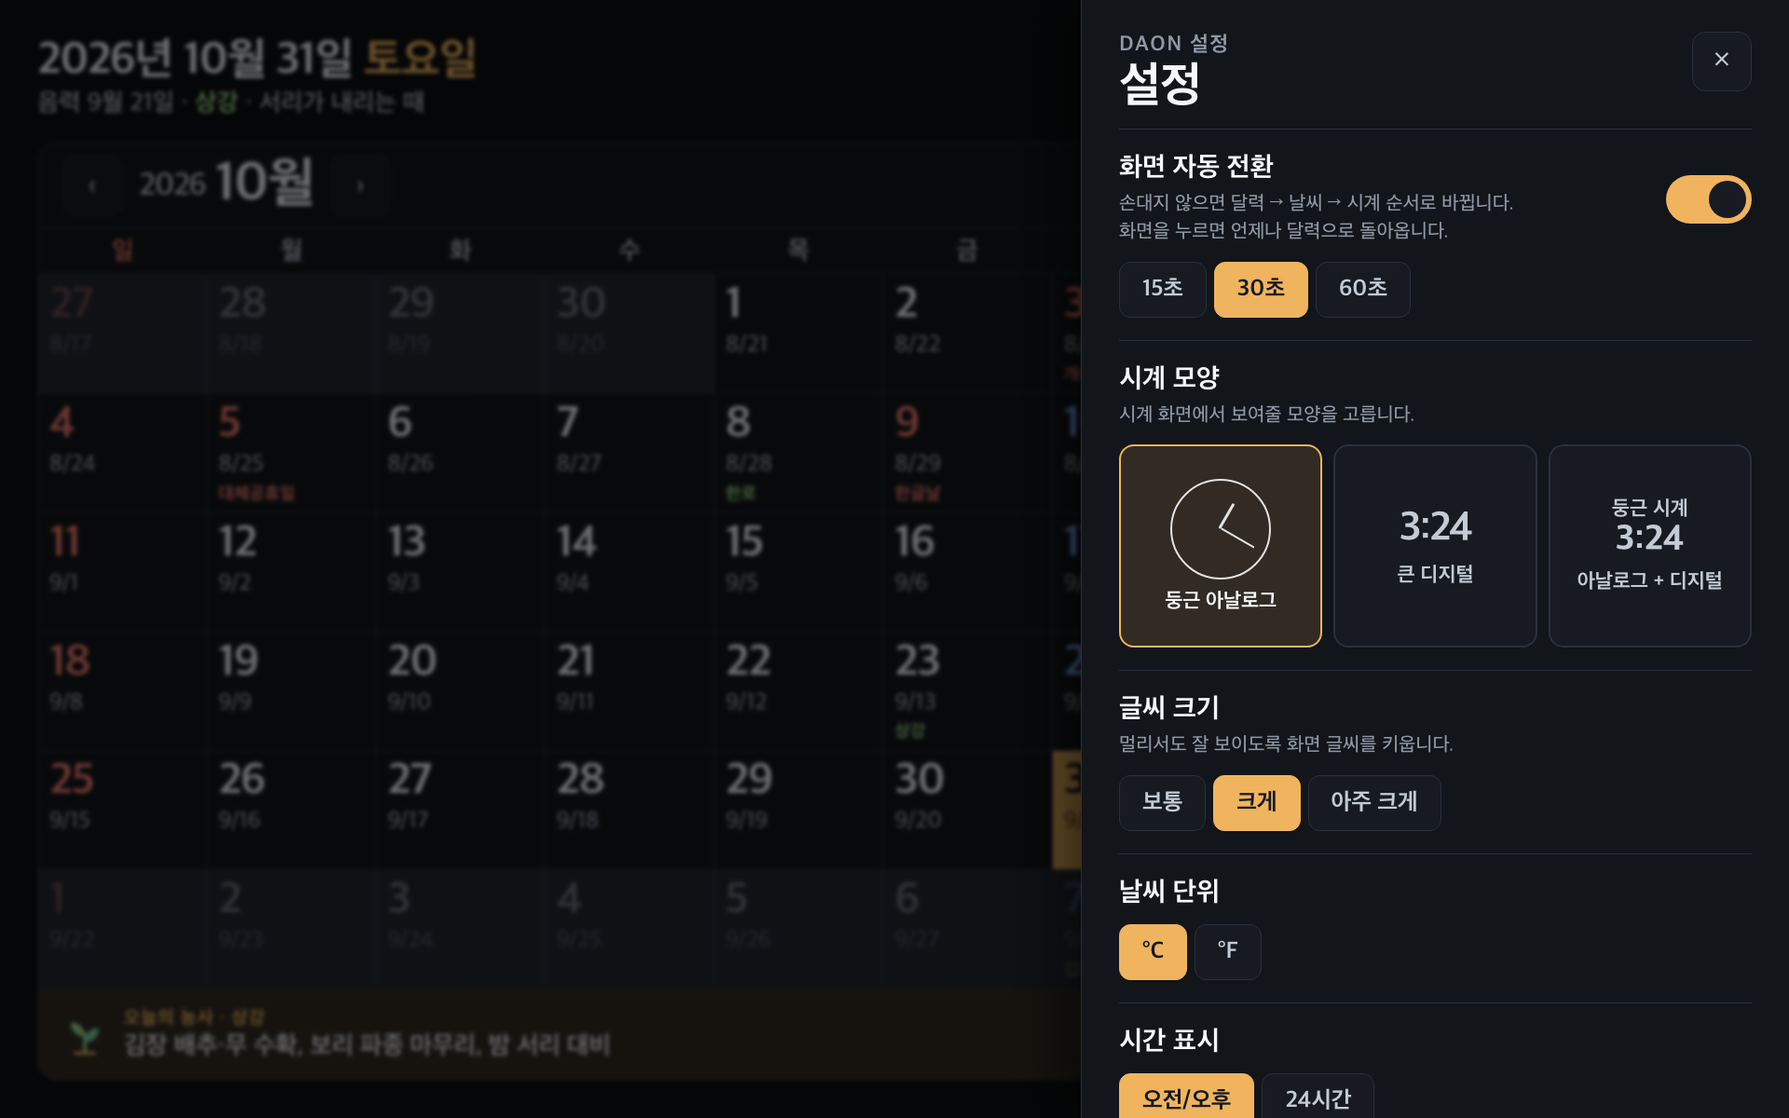
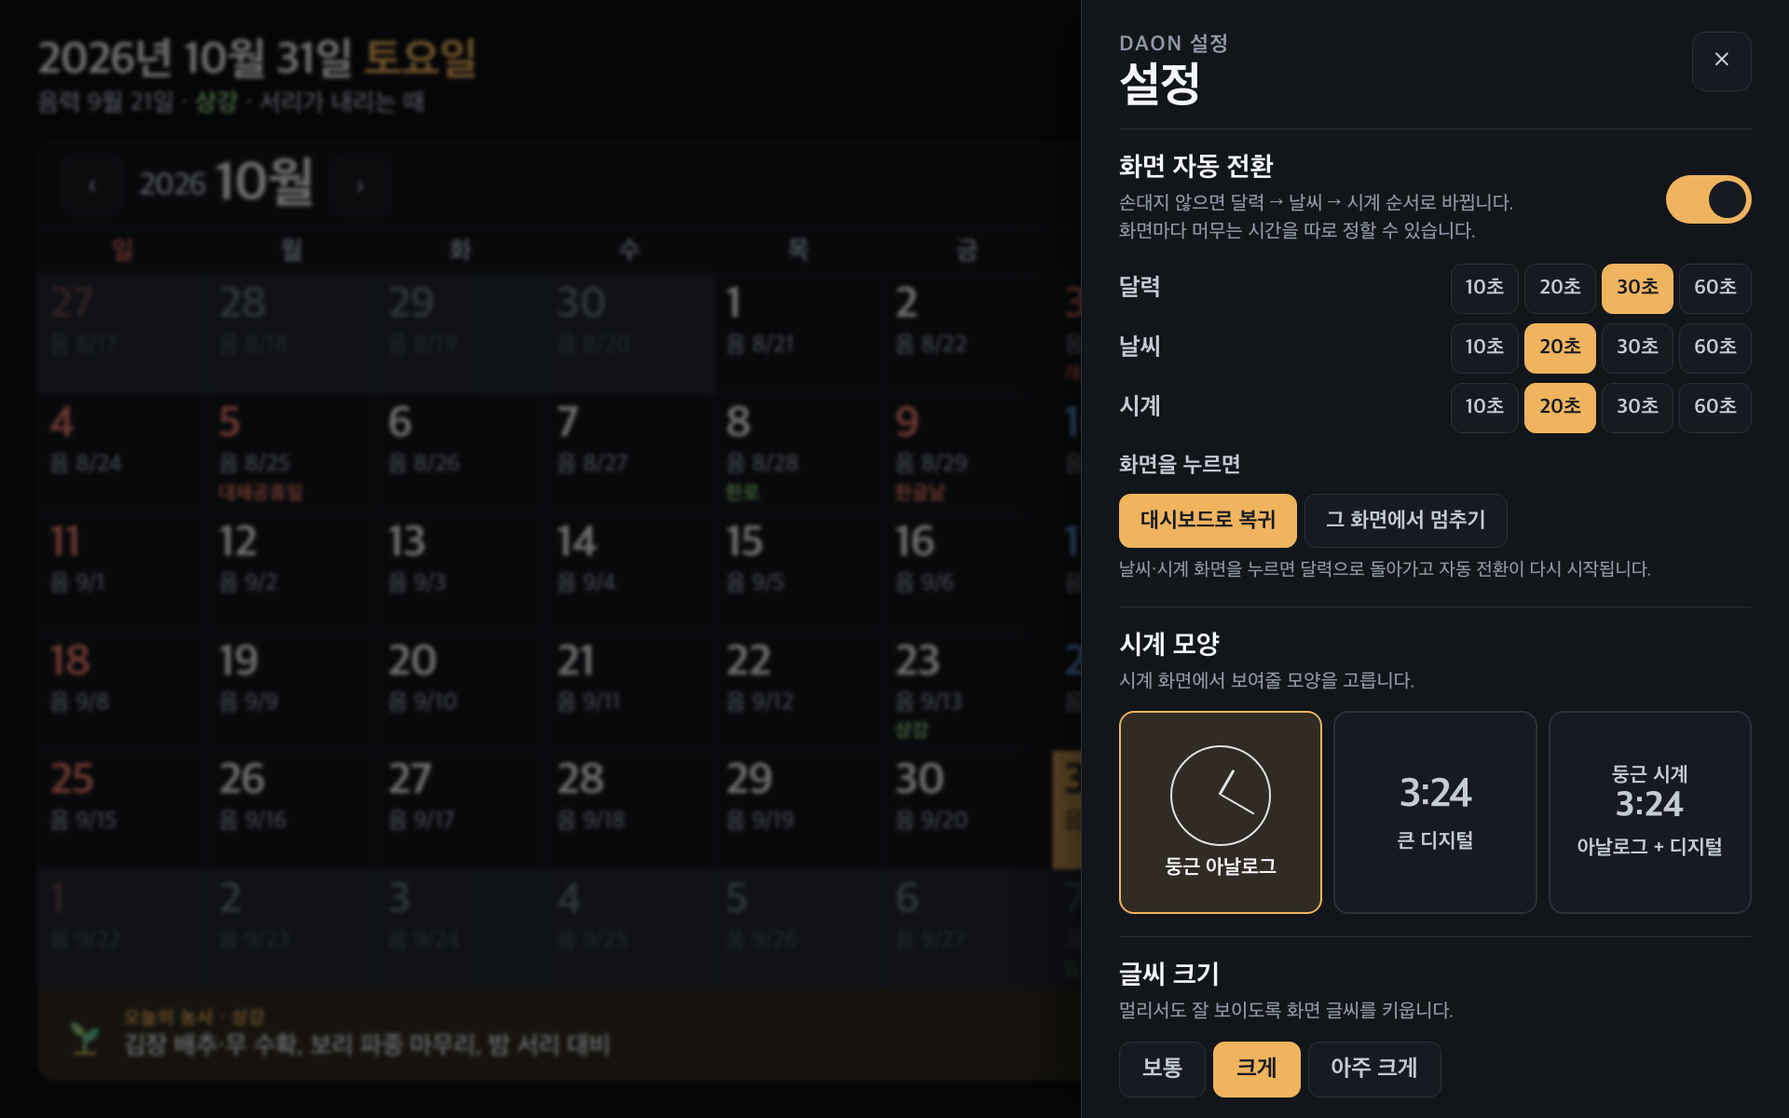
docs(android): v0.2 승인안 반영 — 화면별 전환·터치 동작
화면별 유지 시간(30/20/20초, 10·20·30·60초 설정), 터치 동작(대시보드 복귀 기본 / 그 화면에서 멈추기), 설정 목업·문서 동기화.

diff --git a/docs/mockups/v0.2/index.html b/docs/mockups/v0.2/index.html
@@ -222,6 +222,14 @@
   .seg{height:60px;padding:0 24px;border:1px solid var(--rule);border-radius:12px;background:var(--surface2);
     color:var(--text2);font-size:25px;font-weight:700}
   .seg.on{border-color:var(--accent);background:var(--accent);color:#161A20}
+  .dwell-list{display:flex;flex-direction:column;gap:10px;margin-top:18px}
+  .dwell-row{display:flex;align-items:center;justify-content:space-between;gap:14px}
+  .dwell-name{font-size:26px;font-weight:700;color:var(--text2);min-width:70px}
+  .dwell-row .segmented{margin-top:0;flex-wrap:nowrap;gap:6px}
+  .dwell-row .seg{height:54px;padding:0 15px;font-size:22px;font-weight:700}
+  .touch-label{font-size:24px;font-weight:700;color:var(--text2);margin-top:20px}
+  .touch-note{font-size:20px;color:var(--muted);margin-top:10px;line-height:1.45;font-weight:500}
+  #touchSeg .seg{height:58px;padding:0 22px;font-size:23px}
   .face-grid{display:grid;grid-template-columns:repeat(3,1fr);gap:12px;margin-top:16px}
   .face-card{height:218px;border:2px solid var(--rule);border-radius:16px;background:var(--surface2);color:var(--text2);
     display:flex;flex-direction:column;align-items:center;justify-content:center;gap:10px;padding:12px}
@@ -413,7 +421,7 @@
     <header class="topbar">
       <div>
         <div class="title">오늘 날씨</div>
-        <div class="sub">서울 · 15시 11분 갱신 · 화면을 누르면 달력으로 돌아갑니다</div>
+        <div class="sub" id="weatherSub">서울 · 15시 11분 갱신 · 화면을 누르면 달력으로 돌아갑니다</div>
       </div>
       <div class="right">
         <div class="dots" data-dots="weather"><i class="dot"></i><i class="dot on"></i><i class="dot"></i></div>
@@ -475,7 +483,7 @@
     <header class="topbar">
       <div>
         <div class="title">시계</div>
-        <div class="sub">자동 전환 중 · 시계 모양은 설정에서 바꿀 수 있습니다</div>
+        <div class="sub" id="clockSub">자동 전환 중 · 시계 모양은 설정에서 바꿀 수 있습니다</div>
       </div>
       <div class="right">
         <div class="dots" data-dots="clock"><i class="dot"></i><i class="dot"></i><i class="dot on"></i></div>
@@ -506,7 +514,7 @@
       <div class="clock-caption">음력 9월 21일 · 상강</div>
       <div class="clock-term">서리가 내리는 때 · 김장 배추 수확</div>
       <div class="clock-weather">지금 <b>14°</b> 비 · 오늘 <b>18° / 9°</b></div>
-      <div class="touch-hint">아무 곳이나 누르면 달력으로 돌아갑니다</div>
+      <div class="touch-hint" id="clockHint">아무 곳이나 누르면 달력으로 돌아갑니다</div>
     </div>
   </section>
 
@@ -526,15 +534,45 @@
         <div class="setting-row">
           <div>
             <div class="lab">화면 자동 전환</div>
-            <div class="desc">손대지 않으면 달력 → 날씨 → 시계 순서로 바뀝니다.<br>화면을 누르면 언제나 달력으로 돌아옵니다.</div>
+            <div class="desc">손대지 않으면 달력 → 날씨 → 시계 순서로 바뀝니다.<br>화면마다 머무는 시간을 따로 정할 수 있습니다.</div>
           </div>
           <button class="toggle" id="rotationToggle" aria-label="화면 자동 전환"></button>
         </div>
-        <div class="segmented" id="intervalSeg">
-          <button class="seg">15초</button>
-          <button class="seg on">30초</button>
-          <button class="seg">60초</button>
+        <div class="dwell-list">
+          <div class="dwell-row">
+            <span class="dwell-name">달력</span>
+            <div class="segmented dwell-seg" data-screen="calendar" role="group" aria-label="달력 화면 유지 시간">
+              <button class="seg">10초</button>
+              <button class="seg">20초</button>
+              <button class="seg on">30초</button>
+              <button class="seg">60초</button>
+            </div>
+          </div>
+          <div class="dwell-row">
+            <span class="dwell-name">날씨</span>
+            <div class="segmented dwell-seg" data-screen="weather" role="group" aria-label="날씨 화면 유지 시간">
+              <button class="seg">10초</button>
+              <button class="seg on">20초</button>
+              <button class="seg">30초</button>
+              <button class="seg">60초</button>
+            </div>
+          </div>
+          <div class="dwell-row">
+            <span class="dwell-name">시계</span>
+            <div class="segmented dwell-seg" data-screen="clock" role="group" aria-label="시계 화면 유지 시간">
+              <button class="seg">10초</button>
+              <button class="seg on">20초</button>
+              <button class="seg">30초</button>
+              <button class="seg">60초</button>
+            </div>
+          </div>
         </div>
+        <div class="touch-label">화면을 누르면</div>
+        <div class="segmented" id="touchSeg" role="group" aria-label="화면 터치 동작">
+          <button class="seg on" data-mode="dashboard">대시보드로 복귀</button>
+          <button class="seg" data-mode="pause">그 화면에서 멈추기</button>
+        </div>
+        <div class="touch-note" id="touchNote">날씨·시계 화면을 누르면 달력으로 돌아가고 자동 전환이 다시 시작됩니다.</div>
       </div>
 
       <div class="setting-section">
@@ -791,14 +829,17 @@ const screens=['calendar','weather','clock'];
 const stage=document.getElementById('stage');
 let current='calendar';
 let auto=false;
+let paused=false;
 let autoTimer=null;
-let autoInterval=12000;
+const dwells={calendar:30000, weather:20000, clock:20000};
+let touchMode='dashboard';
 
 function dotsFor(name){
   document.querySelectorAll('.dots').forEach(d=>d.style.opacity=(d.dataset.dots===name)?'1':'.45');
 }
 function setScreen(name, opts={}){
   current=name;
+  if(name==='settings'||name==='term') clearTimeout(autoTimer);
   const base=(name==='settings'||name==='term')?'calendar':name;
   document.querySelectorAll('.screen').forEach(s=>s.classList.toggle('active',s.id==='screen-'+base));
   document.getElementById('settings-overlay').classList.toggle('active',name==='settings');
@@ -807,28 +848,49 @@ function setScreen(name, opts={}){
   document.querySelectorAll('#toolbar [data-go]').forEach(b=>b.classList.toggle('active',b.dataset.go===name));
   document.querySelectorAll('.dots').forEach(d=>d.style.display=(name==='settings'||name==='term')?'none':'flex');
   if(name==='term' && !opts.keepDetail) showDetail('2026-10-23', true);
-  if(opts.resetAuto) resetAuto();
+  if(opts.resetAuto){ paused=false; updateTouchHints(); resetAuto(); }
 }
 function resetAuto(){
-  if(!auto) return;
+  if(!auto || paused) return;
   clearTimeout(autoTimer);
+  if(current==='settings'||current==='term') return;
   autoTimer=setTimeout(()=>{
-    if(current==='settings'||current==='term'){resetAuto();return}
     const i=screens.indexOf(current);
     setScreen(screens[(i+1)%3]);
     resetAuto();
-  },autoInterval);
+  }, dwells[current] || 20000);
 }
-function startAuto(ms){
-  auto=true; autoInterval=ms||autoInterval;
+function startAuto(){
+  auto=true; paused=false;
   document.getElementById('autoBtn').textContent='자동 전환: 켜짐';
   const t=document.getElementById('rotationToggle'); if(t) t.classList.remove('off');
+  updateTouchHints();
   resetAuto();
 }
 function stopAuto(){
-  auto=false; clearTimeout(autoTimer);
+  auto=false; paused=false; clearTimeout(autoTimer);
   document.getElementById('autoBtn').textContent='자동 전환: 꺼짐';
   const t=document.getElementById('rotationToggle'); if(t) t.classList.add('off');
+  updateTouchHints();
+}
+function pauseAuto(){
+  paused=true; clearTimeout(autoTimer);
+  updateTouchHints();
+}
+function updateTouchHints(){
+  const wSub=document.getElementById('weatherSub');
+  const cSub=document.getElementById('clockSub');
+  const cHint=document.getElementById('clockHint');
+  const note=document.getElementById('touchNote');
+  const dashboard=touchMode==='dashboard';
+  if(wSub) wSub.textContent='서울 · 15시 11분 갱신 · '+
+    (dashboard ? '화면을 누르면 달력으로 돌아갑니다' : '화면을 누르면 이 화면에서 멈춥니다');
+  if(cSub) cSub.textContent=paused ? '자동 전환 멈춤' : '자동 전환 중 · 시계 모양은 설정에서 바꿀 수 있습니다';
+  if(cHint) cHint.textContent=paused ? '자동 전환을 멈췄습니다 · 다시 누르면 시작합니다'
+    : (dashboard ? '아무 곳이나 누르면 달력으로 돌아갑니다' : '아무 곳이나 누르면 자동 전환을 멈춥니다');
+  if(note) note.textContent=dashboard
+    ? '날씨·시계 화면을 누르면 달력으로 돌아가고 자동 전환이 다시 시작됩니다.'
+    : '날씨·시계 화면을 누르면 그 화면에 그대로 멈춥니다. 다시 누르면 자동 전환이 시작됩니다.';
 }
 document.querySelectorAll('[data-go]').forEach(b=>b.addEventListener('click',()=>{
   const go=b.dataset.go;
@@ -841,20 +903,25 @@ document.querySelectorAll('[data-close]').forEach(b=>b.addEventListener('click',
   if(which==='term') setScreen('calendar',{resetAuto:true});
 }));
 document.getElementById('autoBtn').addEventListener('click',()=>{
-  if(auto){stopAuto();} else {startAuto(12000);}
+  if(auto){stopAuto();} else {startAuto();}
 });
 
-/* 터치하면 달력으로 */
+/* 터치 동작: 대시보드 복귀(기본) 또는 그 화면에서 멈추기 */
 stage.addEventListener('click',(e)=>{
   if(current==='weather'||current==='clock'){
-    // 화면 전체 터치 → 달력 복귀 (단, 설정 버튼은 예외)
     if(e.target.closest('[data-go="settings"]')) return;
-    setScreen('calendar',{resetAuto:true});
+    if(touchMode==='dashboard'){
+      setScreen('calendar',{resetAuto:true});
+    } else if(paused){
+      startAuto();
+    } else {
+      pauseAuto();
+    }
   } else if(current==='settings'||current==='term'){
     // 패널 내부 조작은 유지, 바깥 scrim은 닫기
     if(e.target.closest('.scrim')) setScreen('calendar',{resetAuto:true});
   } else {
-    resetAuto();
+    if(paused) startAuto(); else resetAuto();
   }
 },true);
 
@@ -862,13 +929,23 @@ stage.addEventListener('click',(e)=>{
 const rotationToggle=document.getElementById('rotationToggle');
 rotationToggle.addEventListener('click',()=>{
   rotationToggle.classList.toggle('off');
-  if(rotationToggle.classList.contains('off')) stopAuto(); else startAuto(autoInterval);
+  if(rotationToggle.classList.contains('off')) stopAuto(); else startAuto();
 });
-document.querySelectorAll('#intervalSeg .seg').forEach(b=>b.addEventListener('click',()=>{
-  document.querySelectorAll('#intervalSeg .seg').forEach(x=>x.classList.remove('on'));
+document.querySelectorAll('.dwell-seg').forEach(group=>{
+  group.querySelectorAll('.seg').forEach(b=>b.addEventListener('click',()=>{
+    group.querySelectorAll('.seg').forEach(x=>x.classList.remove('on'));
+    b.classList.add('on');
+    dwells[group.dataset.screen]=parseInt(b.textContent,10)*1000;
+    if(auto && !paused) resetAuto();
+  }));
+});
+document.querySelectorAll('#touchSeg .seg').forEach(b=>b.addEventListener('click',()=>{
+  document.querySelectorAll('#touchSeg .seg').forEach(x=>x.classList.remove('on'));
   b.classList.add('on');
-  autoInterval=parseInt(b.textContent,10)*1000;
-  if(auto) startAuto(autoInterval);
+  touchMode=b.dataset.mode;
+  paused=false;
+  updateTouchHints();
+  if(auto) resetAuto();
 }));
 document.querySelectorAll('#faceGrid .face-card').forEach(b=>b.addEventListener('click',()=>{
   document.querySelectorAll('#faceGrid .face-card').forEach(x=>x.classList.remove('on'));
@@ -877,7 +954,7 @@ document.querySelectorAll('#faceGrid .face-card').forEach(b=>b.addEventListener(
   document.getElementById('clockFaceWrap').dataset.face=face;
 }));
 document.querySelectorAll('.segmented').forEach(group=>{
-  if(group.id==='intervalSeg') return;
+  if(group.classList.contains('dwell-seg')||group.id==='faceSeg'||group.id==='touchSeg') return;
   group.querySelectorAll('.seg').forEach(b=>b.addEventListener('click',()=>{
     group.querySelectorAll('.seg').forEach(x=>x.classList.remove('on'));
     b.classList.add('on');
@@ -951,8 +1028,9 @@ if(params.get('capture')==='1'){
 } else {
   fit();
   setScreen('calendar');
-  startAuto(12000); // 목업에서는 12초로 빠르게 시연
+  startAuto(); // 승인된 기본값: 달력 30초 / 날씨 20초 / 시계 20초
 }
+updateTouchHints();
 </script>
 </body>
 </html>

diff --git a/docs/mockups/v0.2/README.md b/docs/mockups/v0.2/README.md
@@ -20,7 +20,7 @@ python3 -m http.server 8787
 # http://localhost:8787/index.html
 ```
 
-상단 툴바에서 화면을 바꿀 수 있습니다. 목업에서는 자동 전환이 **12초**로 빠르게 동작합니다(실제 제안 기본값은 달력 30초 / 날씨 20초 / 시계 20초).
+상단 툴바에서 화면을 바꿀 수 있습니다. 목업도 실제 제안값과 같은 **달력 30초 / 날씨 20초 / 시계 20초**로 자동 전환합니다. 설정 패널에서 화면별 시간을 10/20/30/60초로 바꿀 수 있습니다.
 
 ### 상호작용
 
@@ -33,7 +33,8 @@ python3 -m http.server 8787
 | 달력의 **10/8(한로), 10/23(상강)** 클릭 | 24절기 설명 + 농사일 |
 | 달력의 **10/3, 10/5, 10/9** 클릭 | 공휴일 설명 |
 | 아무 날짜 클릭 | 음력·절기·공휴일 상세(없으면 날짜 정보) |
-| 날씨/시계 화면 아무 곳 클릭 | 달력으로 복귀 (자동 전환 리셋) |
+| 날씨/시계 화면 아무 곳 클릭 | 기본: 달력으로 복귀 (자동 전환 리셋) / 설정에서 `그 화면에서 멈추기` 선택 시: 그 화면에서 정지, 다시 누르면 재개 |
+| 설정 → 화면 자동 전환 | 화면별 유지 시간(10/20/30/60초)과 터치 동작 변경 |
 | 설정 → 시계 모양 | 둥근 아날로그 / 큰 디지털 / 혼합 선택 |
 
 ### 캡처용 URL
@@ -53,7 +54,7 @@ index.html?capture=1&screen=term&date=2026-10-23
 | `screens/01-calendar.png` | 달력 홈 — 달력 70%, 오른쪽 시계·날씨 30%, 음력·공휴일·24절기·오늘의 농사 |
 | `screens/02-weather.png` | 날씨 메인 — 현재/체감/강수/습도/바람, 시간별(3시간), 이번 주 7일, 농사 참고, 비 애니메이션 |
 | `screens/03-clock.png` | 시계 메인 — 둥근 아날로그(기본), 날짜·음력·절기·날씨 |
-| `screens/04-settings.png` | 설정 — 자동 전환, 시계 모양, 글씨 크기, 단위·시간·언어·도시 |
+| `screens/04-settings.png` | 설정 — 자동 전환(화면별 시간·터치 동작), 시계 모양, 글씨 크기, 단위·시간·언어·도시 |
 | `screens/05-term.png` | 상강 상세 — 절기 설명, 농사일, 이달의 절기·공휴일 |
 | `screens/06-clock-digital.png` | 시계 메인 — 큰 디지털 |
 | `screens/07-clock-hybrid.png` | 시계 메인 — 아날로그 + 디지털 |
@@ -71,18 +72,17 @@ index.html?capture=1&screen=term&date=2026-10-23
 
 정한 것:
 - 달력 70% / 오른쪽 30% (시계+날씨)
-- 3화면 로테이션, 터치 시 달력 복귀
+- 3화면 로테이션: 달력 30초 / 날씨 20초 / 시계 20초 (화면별 10/20/30/60초로 변경 가능)
+- 터치 동작 설정: `대시보드로 복귀`(기본) / `그 화면에서 멈추기`
 - 달력 셀에 양력·음력·공휴일·절기 동시 표시
 - 날짜 클릭 → 우측 상세 패널(다이얼로그 아님)
 - 70대 기준 큰 글씨·큰 터치 영역·높은 대비
+- 기본 글씨 크기 `크게`, 기본 시계 모양 `둥근 아날로그`
 - 시계 3종(아날로그/디지털/혼합)
 
 정하지 않은 것(승인 필요):
-- 기본 글씨 크기(크게 vs 아주 크게)
-- 기본 시계 모양(아날로그 추천)
-- 자동 전환 간격(30/20/20초 추천)
-- 라이트 테마 추가 여부
+- 라이트 테마 추가 여부(실제 거실 밝기 테스트 후)
 - 공휴일 데이터 갱신 방식(앱 업데이트 vs 네트워크)
-- 농사 문안 검수 주체·일정
+- 농사 문안 검수 주체·일정(추후)
 
 상세 계획은 `docs/plans/PLAN_v0.2_android.md`를 참고하세요.

diff --git a/docs/DESIGN.md b/docs/DESIGN.md
@@ -10,7 +10,7 @@
 ### 0.1 핵심 변화
 - **달력이 주인공**: 달력 70% / 오른쪽 시계·날씨 30%. v0.1의 34/40/26 3분할을 폐기한다.
 - **대상 사용자**: 70대 어르신. 본문 27~30px, 핵심 숫자 47px 이상, W300 금지, 터치 ≥64px.
-- **3화면 로테이션**: 달력(30초) → 날씨(20초) → 시계(20초). 터치하면 달력 복귀, 패널 열림 중 정지.
+- **3화면 로테이션**: 달력(30초) → 날씨(20초) → 시계(20초). 화면별 시간 설정, 터치 동작 설정(대시보드 복귀 기본 / 그 화면에서 멈추기), 패널 열림 중 정지.
 - **농사 달력**: 양력 + 음력 + 한국 공휴일 + 24절기 + 절기별 농사일.
 - **날씨 메인**: 시간별·7일·강수량·농사 참고 + 비/눈/천둥/맑음 효과.
 - **시계 메인**: 둥근 아날로그(기본) / 큰 디지털 / 혼합 선택.
@@ -53,10 +53,13 @@
 
 ### 0.5 화면 전환
 - 화면: `CALENDAR`(홈) / `WEATHER` / `CLOCK`. 250ms 크로스페이드.
-- 기본 간격: 달력 30초 → 날씨 20초 → 시계 20초 → 달력.
-- 아무 곳이나 터치: 즉시 달력 + 타이머 리셋. 설정/상세 패널이 열려 있으면 전환 정지.
-- 화면 점 3개는 표시 전용(터치 대상 아님). 하단에 "화면을 누르면 달력으로 돌아갑니다" 안내.
-- 설정에서 자동 전환 끄기, 간격 15/30/60초.
+- 기본 간격: 달력 30초 → 날씨 20초 → 시계 20초 → 달력. 화면마다 10/20/30/60초로 변경 가능.
+- 터치 동작(설정):
+  - `대시보드로 복귀`(기본): 날씨·시계 화면을 누르면 즉시 달력 + 타이머 리셋.
+  - `그 화면에서 멈추기`: 누른 화면에 그대로 정지, 다시 누르면 자동 전환 재개.
+- 설정/상세 패널이 열려 있으면 전환 정지.
+- 화면 점 3개는 표시 전용(터치 대상 아님). 하단 안내 문구는 선택한 터치 동작에 맞춰 바뀐다.
+- 설정에서 자동 전환 끄기, 화면별 시간, 터치 동작 변경.
 
 ### 0.6 70대 접근성 체크 (목업 반영, 구현 시 검증)
 - [ ] 본문 ≥27px, 보조 ≥21px, 18px 이하 없음
@@ -78,7 +81,7 @@
 | 날씨 | 현재 + 3일 | 현재 + 시간별 + 7일 + 효과 |
 | 시계 | 1종 | 3종 선택 |
 | 본문 | 18~20sp | 27~30px |
-| 설정 | 도시·시간·단위·언어 | + 자동 전환·시계 모양·글씨 크기·날씨 움직임 |
+| 설정 | 도시·시간·단위·언어 | + 자동 전환·화면별 시간·터치 동작·시계 모양·글씨 크기·날씨 움직임 |
 
 ## 1. 원칙
 - **원거리 가독성**: 1~3m 거리에서 읽힌다. 본문 최소 18sp, 핵심 수치는 72sp 이상.

diff --git a/docs/TODO.md b/docs/TODO.md
@@ -22,8 +22,8 @@
 - [ ] T-014 달력 데이터 자산 생성: 음력 2025–2040, 24절기 2025–2040, 공휴일 2026–2027 + 검증 테스트
 - [ ] T-015 달력 홈 재설계: 달력 70% / 시계·날씨 30%, 음력·공휴일·절기 셀, 오늘 강조, 월 이동
 - [ ] T-016 날짜 상세 패널: 절기 설명·농사일·공휴일 설명 (인앱 우측 패널, 다이얼로그 금지)
-- [ ] T-017 3화면 로테이션: 달력 30초 → 날씨 20초 → 시계 20초, 터치 시 달력 복귀·일시정지
-- [ ] T-018 설정 확장: 자동 전환·간격, 시계 모양, 글씨 크기, 날씨 움직임, 도시/단위/언어
+- [ ] T-017 3화면 로테이션: 달력 30초 → 날씨 20초 → 시계 20초, 화면별 시간 설정, 터치 시 대시보드 복귀 또는 현재 화면 정지
+- [ ] T-018 설정 확장: 자동 전환·화면별 시간·터치 동작, 시계 모양, 글씨 크기, 날씨 움직임, 도시/단위/언어
 - [ ] T-019 날씨 메인: 현재/체감/시간별(3시간)·7일·농사 참고·비/눈/천둥 애니메이션
 - [ ] T-020 시계 메인 3종: 둥근 아날로그(기본)·큰 디지털·혼합, 설정 즉시 반영
 - [ ] T-021 v0.2 검증: 70대 사용자 3과제, i18n 패리티, 콜드스타트/PSS/60fps/1시간 메모리, 실기기 캡처

diff --git a/docs/CHANGELOG.md b/docs/CHANGELOG.md
@@ -6,7 +6,7 @@
 
 ### 설계 제안·목업 (코드 미착수)
 - v0.2 목표: 70대 어르신용 **농사 달력** 키오스크 — 달력 70% / 시계·날씨 30%
-- 3화면 로테이션: 달력 30초 → 날씨 20초 → 시계 20초, 터치 시 달력 복귀
+- 3화면 로테이션: 달력 30초 → 날씨 20초 → 시계 20초 (화면별 설정), 터치 동작 `대시보드로 복귀`(기본) / `그 화면에서 멈추기`
 - 달력: 음력·한국 공휴일·24절기·농사일, 날짜 클릭 상세 패널
 - 날씨: 현재/시간별/7일/농사 참고 + 비·눈·천둥 효과
 - 시계: 둥근 아날로그(기본)·큰 디지털·혼합 선택
